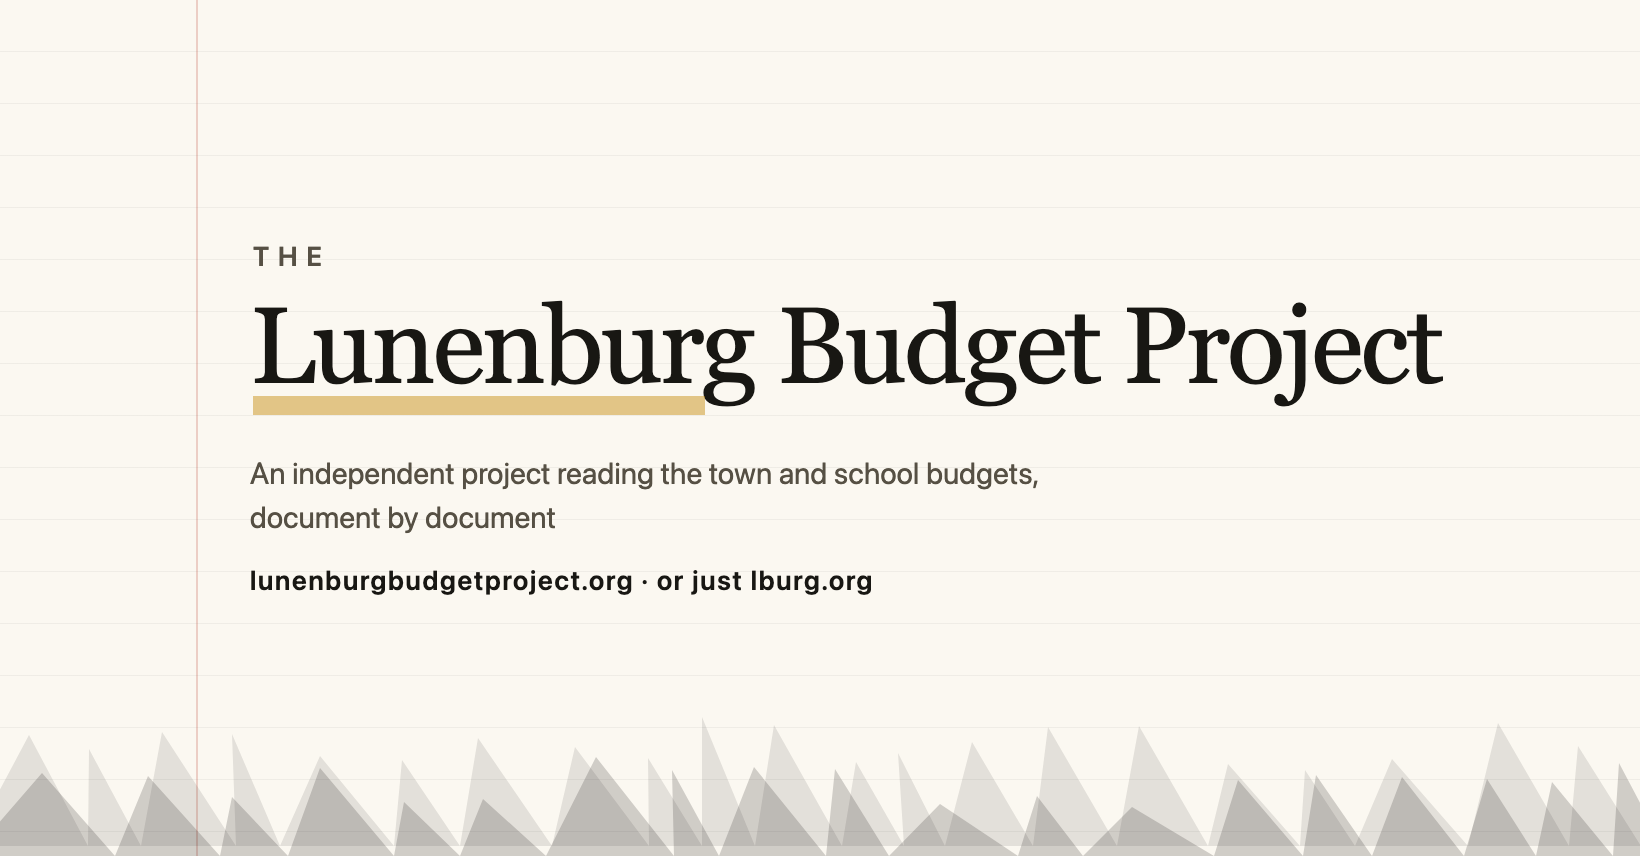
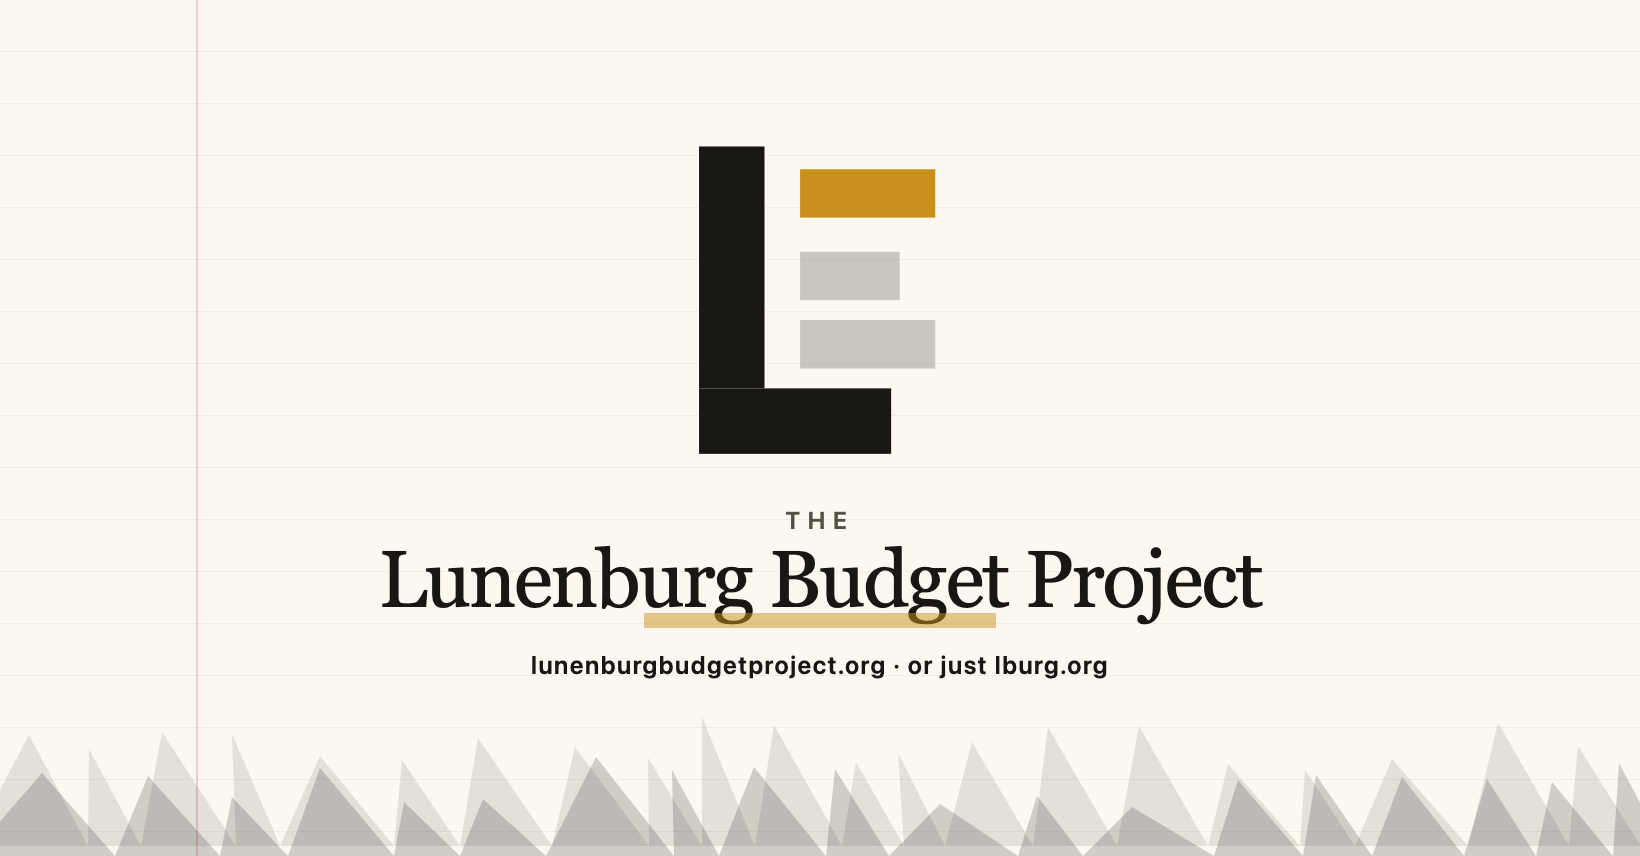
The group cover is laid out so Facebook's thumbnail crop is the mark itself
A Facebook group has no profile picture; the square beside its name is the centre of
the cover, and the first layout put the middle of the wordmark there. The L-mark from
the favicon now sits in the centre square at 370px, wordmark and both addresses stacked
beneath it inside the mobile-safe area. build_brand_assets.py carries it as option d,
sharing c's favicon: one drawing at two sizes.

Claude-Session: https://claude.ai/code/session_014fdUitnBS7xxmQNfQ1GHBV

Changed region(s): [[0.1555, 0.1519, 0.8707, 0.7897], [0.1555, 0.2734, 0.1866, 0.3037]]

diff --git a/scripts/build_brand_assets.py b/scripts/build_brand_assets.py
@@ -269,6 +269,79 @@ def banner_c():
 """
 
 
+def banner_d():
+    """D. THE MARGIN, CENTRED — the same page, laid out so the crop survives.
+
+    A Facebook GROUP has no profile picture. The square thumbnail beside the group's name
+    is the cover's CENTRE SQUARE, cropped by Facebook and shrunk to about 56 pixels, and
+    the first cover put the wordmark there, so the thumbnail read "nenburg Budget Pro".
+    The fix is layout rather than a second image: the L-mark from the favicon sits in the
+    centre 856x856, large enough to survive 56px, and the wordmark and addresses stack
+    beneath it inside the mobile-safe area. Cover your thumbs over the outer thirds and
+    what remains is the favicon.
+
+    The mark is the favicon's own geometry scaled up -- same coordinates, same colours --
+    so the tab icon and the thumbnail are one drawing at two sizes.
+    """
+    paper, ink, soft, mark = '#fbf8f1', '#181713', '#565044', '#c9911c'
+    import random
+
+    def row(seed, lo, hi, base, overlap):
+        rnd = random.Random(seed)
+        pts, x = [], -30
+        while x < W + 70:
+            w = rnd.randint(88, 164)
+            pts.append(f'L{x + w / 2:.0f} {base - rnd.randint(lo, hi)} L{x + w:.0f} {base}')
+            x += w - rnd.randint(overlap, overlap + 22)
+        return 'M-30 %d ' % base + ' '.join(pts) + f' L{W + 70} {base} Z'
+
+    back = row(3, 74, 132, 162, 34)
+    front = row(11, 48, 100, 172, 26)
+    # The favicon's rects, on its 32-grid; the <svg> viewBox scales them.
+    glyph = """
+  <rect x="8.5" y="5" width="4.6" height="17" fill="%(ink)s"/>
+  <rect x="8.5" y="22" width="13.5" height="4.6" fill="%(ink)s"/>
+  <rect x="15.6" y="6.6" width="9.5" height="3.4" fill="%(mark)s"/>
+  <rect x="15.6" y="12.4" width="7" height="3.4" fill="%(ink)s" opacity=".22"/>
+  <rect x="15.6" y="17.2" width="9.5" height="3.4" fill="%(ink)s" opacity=".22"/>""" % dict(ink=ink, mark=mark)
+    return f"""
+<style>
+  body {{ margin:0; width:{W}px; height:{H}px; overflow:hidden; background:{paper};
+          font-family:{SERIF}; position:relative; color:{ink}; }}
+  .rules {{ position:absolute; inset:0;
+            background:repeating-linear-gradient(180deg,
+              transparent 0 51px, rgba(24,23,19,.05) 51px 52px); }}
+  .gutter {{ position:absolute; left:196px; top:0; bottom:0; width:2px;
+             background:rgba(181,58,40,.22); }}
+  .stack {{ position:absolute; left:0; right:0; top:118px; text-align:center; }}
+  .glyph {{ display:block; margin:0 auto; width:370px; height:370px; }}
+  .the {{ font-family:{SANS}; font-size:24px; letter-spacing:.32em;
+          text-transform:uppercase; color:{soft}; margin:18px 0 6px; font-weight:600; }}
+  h1 {{ font-size:80px; line-height:1.0; letter-spacing:-.026em; margin:0;
+        font-weight:400; }}
+  .hl {{ display:block; height:15px; width:352px; background:{mark};
+         opacity:.5; margin:-7px auto 0; }}
+  .addr {{ font-family:{SANS}; font-size:25px; letter-spacing:.055em; margin:22px 0 0;
+           font-weight:600; }}
+  svg.trees {{ position:absolute; left:0; bottom:0; }}
+</style>
+<div class="rules"></div>
+<div class="gutter"></div>
+<div class="stack">
+  <svg class="glyph" viewBox="4 3 26 26">{glyph}
+  </svg>
+  <p class="the">{NAME_THE}</p>
+  <h1>{NAME}</h1>
+  <div class="hl"></div>
+  <p class="addr">{ADDR}</p>
+</div>
+<svg class="trees" width="{W}" height="172" viewBox="0 0 {W} 172">
+  <path fill="{ink}" opacity=".10" d="{back}"/>
+  <path fill="{ink}" opacity=".19" d="{front}"/>
+</svg>
+"""
+
+
 # ---------------------------------------------------------------- favicons
 #
 # Hand-written SVG on a 32 grid, because 32 pixels is where the idea either survives or
@@ -313,7 +386,7 @@ FAVICONS = {
 """,
 }
 
-BANNERS = {'a': banner_a, 'b': banner_b, 'c': banner_c}
+BANNERS = {'a': banner_a, 'b': banner_b, 'c': banner_c, 'd': banner_d}
 
 TITLES = {
     'a': ('The Ridge', 'The town seen whole, at the end of the day. Landscape, calm, '
@@ -326,6 +399,9 @@ TITLES = {
     'c': ('The Margin', 'A page, not a poster. Paper, a wordmark, one marked line, and a '
                         'hairline treeline. Says the work is reading, done in public. '
                         'No blue; the accent is a highlighter ochre.'),
+    'd': ('The Margin, centred', 'The chosen option, laid out so that the centre square '
+                                 'Facebook crops into the group thumbnail is the mark '
+                                 'itself rather than the middle of the wordmark.'),
 }
 
 
@@ -538,9 +614,10 @@ def main():
         return 0
     keys = [a.only] if a.only else ['a', 'b', 'c']
     for k in keys:
+        # d shares c's favicon: it is the same mark, laid out differently on the cover.
         p = os.path.join(OUT, 'favicon-%s.svg' % k)
         with open(p, 'w', encoding='utf-8') as fh:
-            fh.write(FAVICONS[k])
+            fh.write(FAVICONS.get(k) or FAVICONS['c'])
         print('wrote ' + os.path.relpath(p, ROOT))
         render(k)
     favicon_sheet()

diff --git a/sources/data/brand/README.md b/sources/data/brand/README.md
@@ -38,6 +38,14 @@ project IS, not what it found.
 | `facebook-group-cover.png` | 1640x856 | the Facebook group cover |
 | `favicon.svg` | 32x32 | published as `fy28/public/favicon.svg` |
 
+**The layout was changed on 11 September so the thumbnail is the mark.** A Facebook GROUP
+has no profile picture: the square beside the group's name is the cover's CENTRE SQUARE,
+cropped and shrunk to about 56 pixels, and the first layout put the wordmark there, so
+the thumbnail read *"nenburg Budget Pro"*. The L-mark now sits in the centre 856x856 with
+the wordmark and both addresses stacked beneath it inside the mobile-safe area; the blurb
+line was dropped for room (the group description carries it). Option `d` in the
+generator; TJ, seeing it: *"OHHH I love that"*.
+
 **1640x856 is the GROUP cover size, checked September 2026** — a PAGE cover is 820x312 and
 is a different thing. Facebook crops the top and bottom on mobile and overlays the group
 name across the bottom, so everything that matters sits inside the centre 1440x560.
